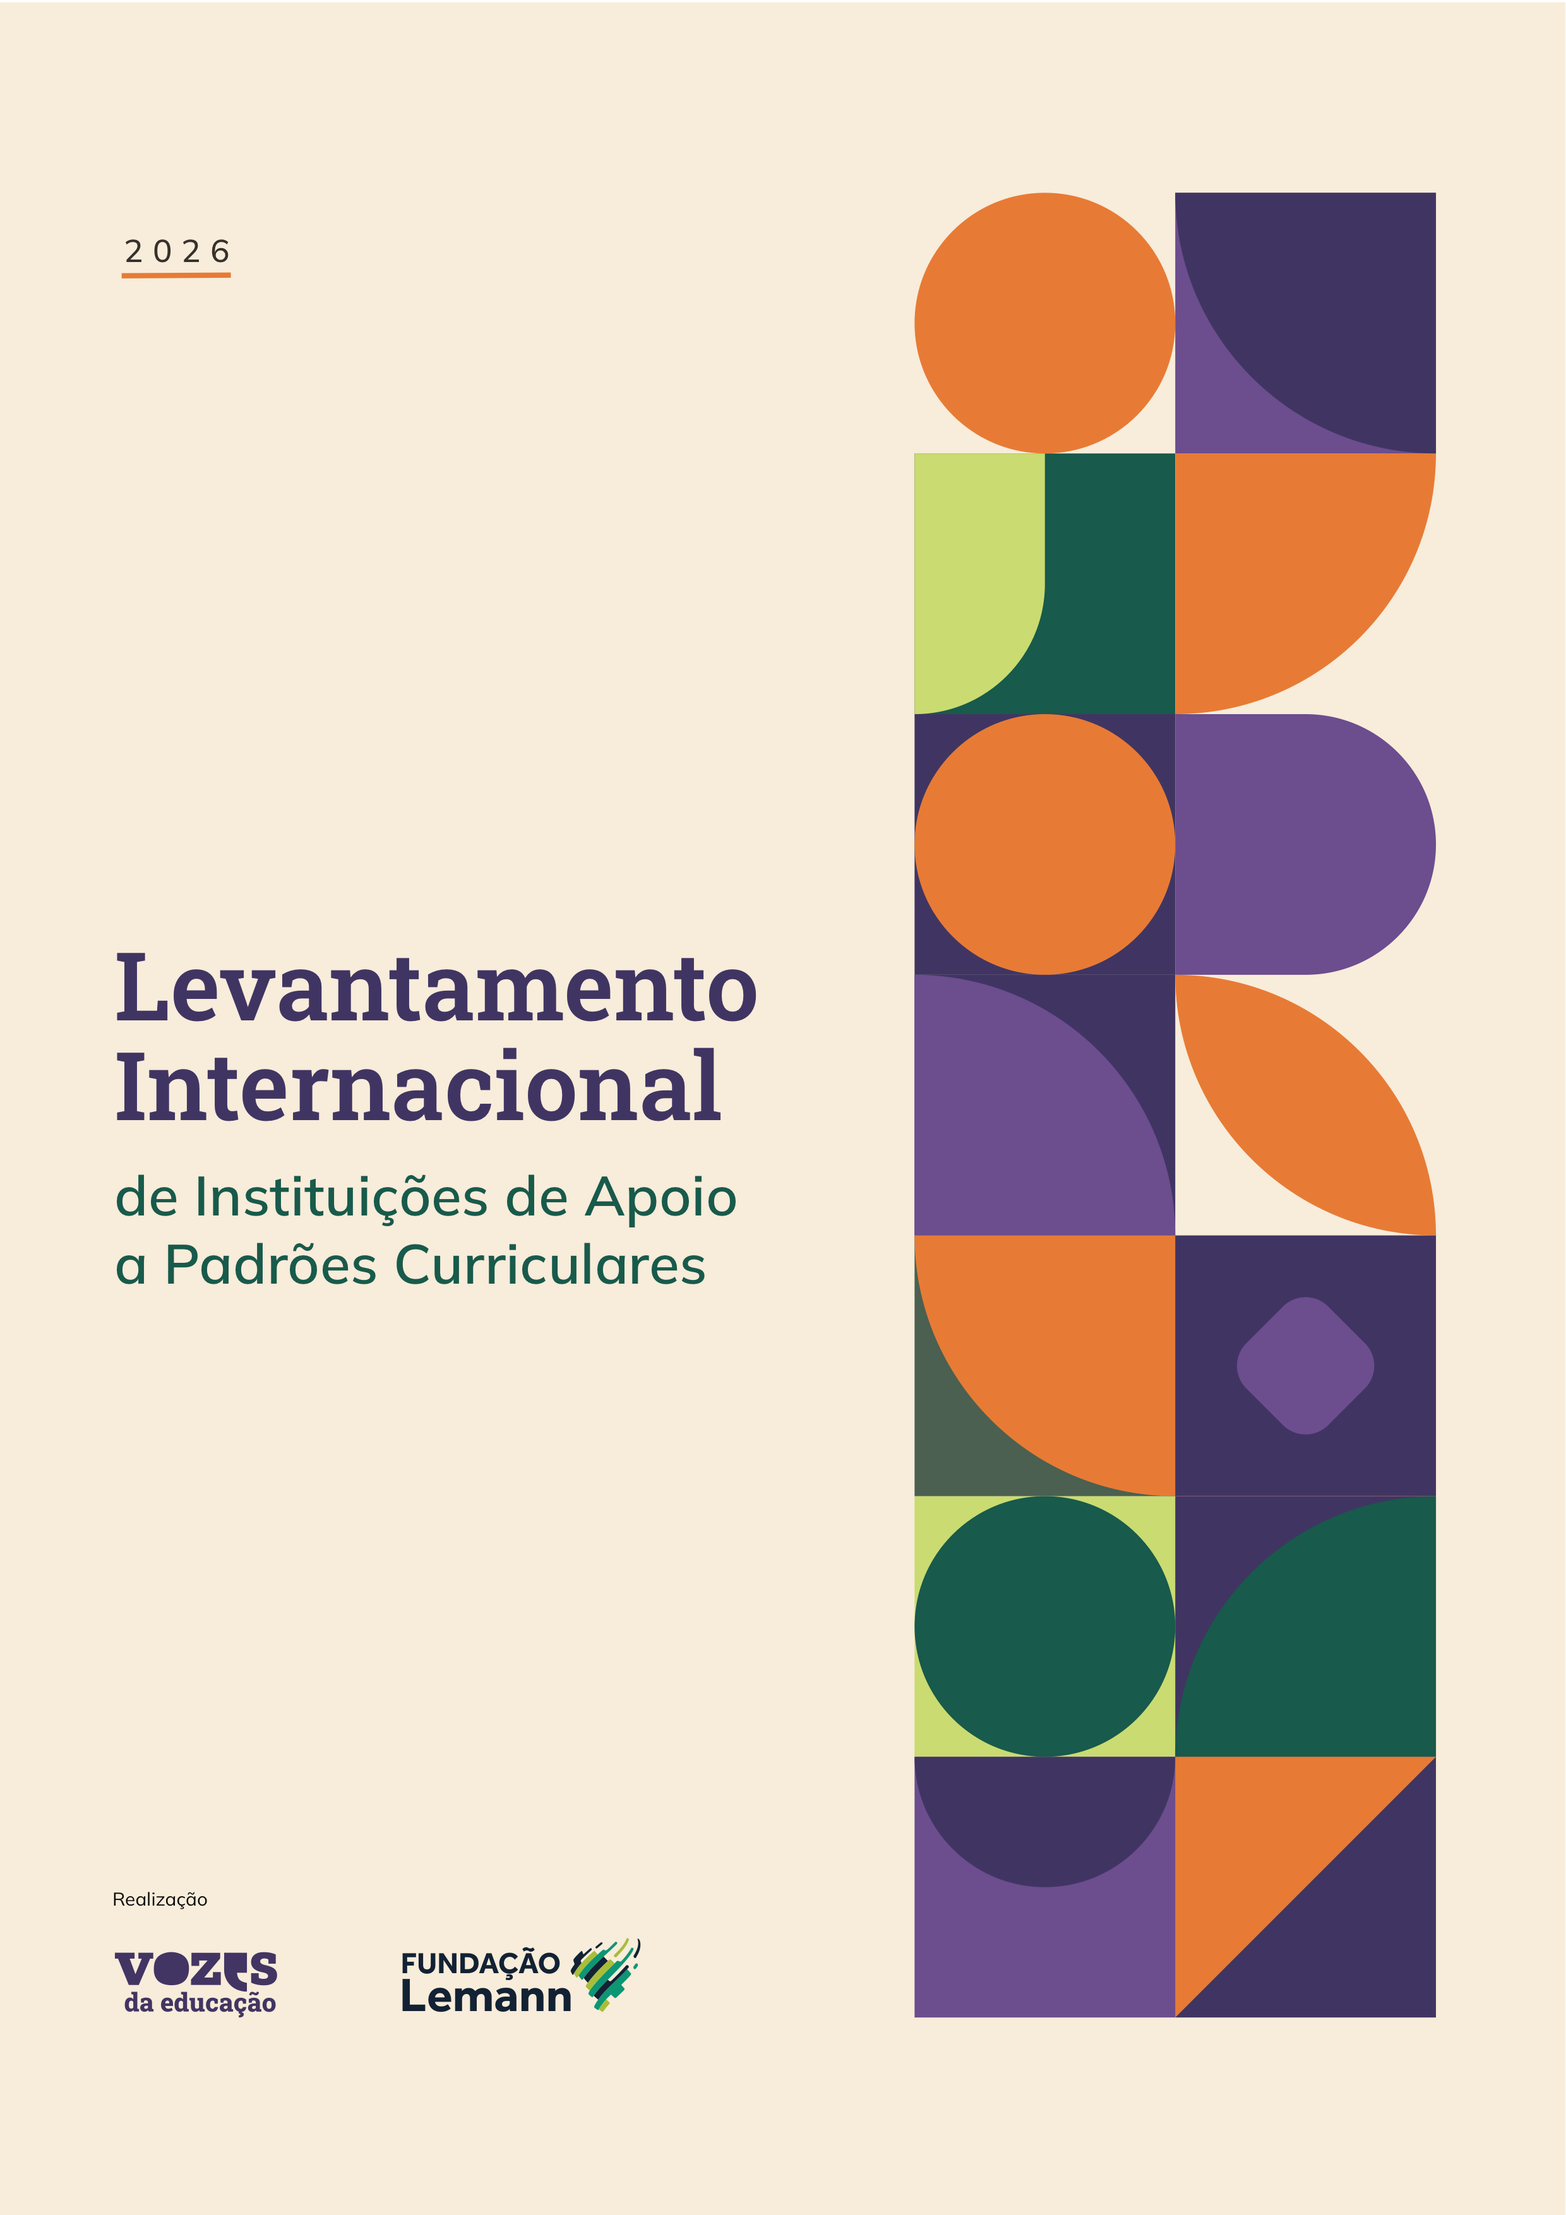
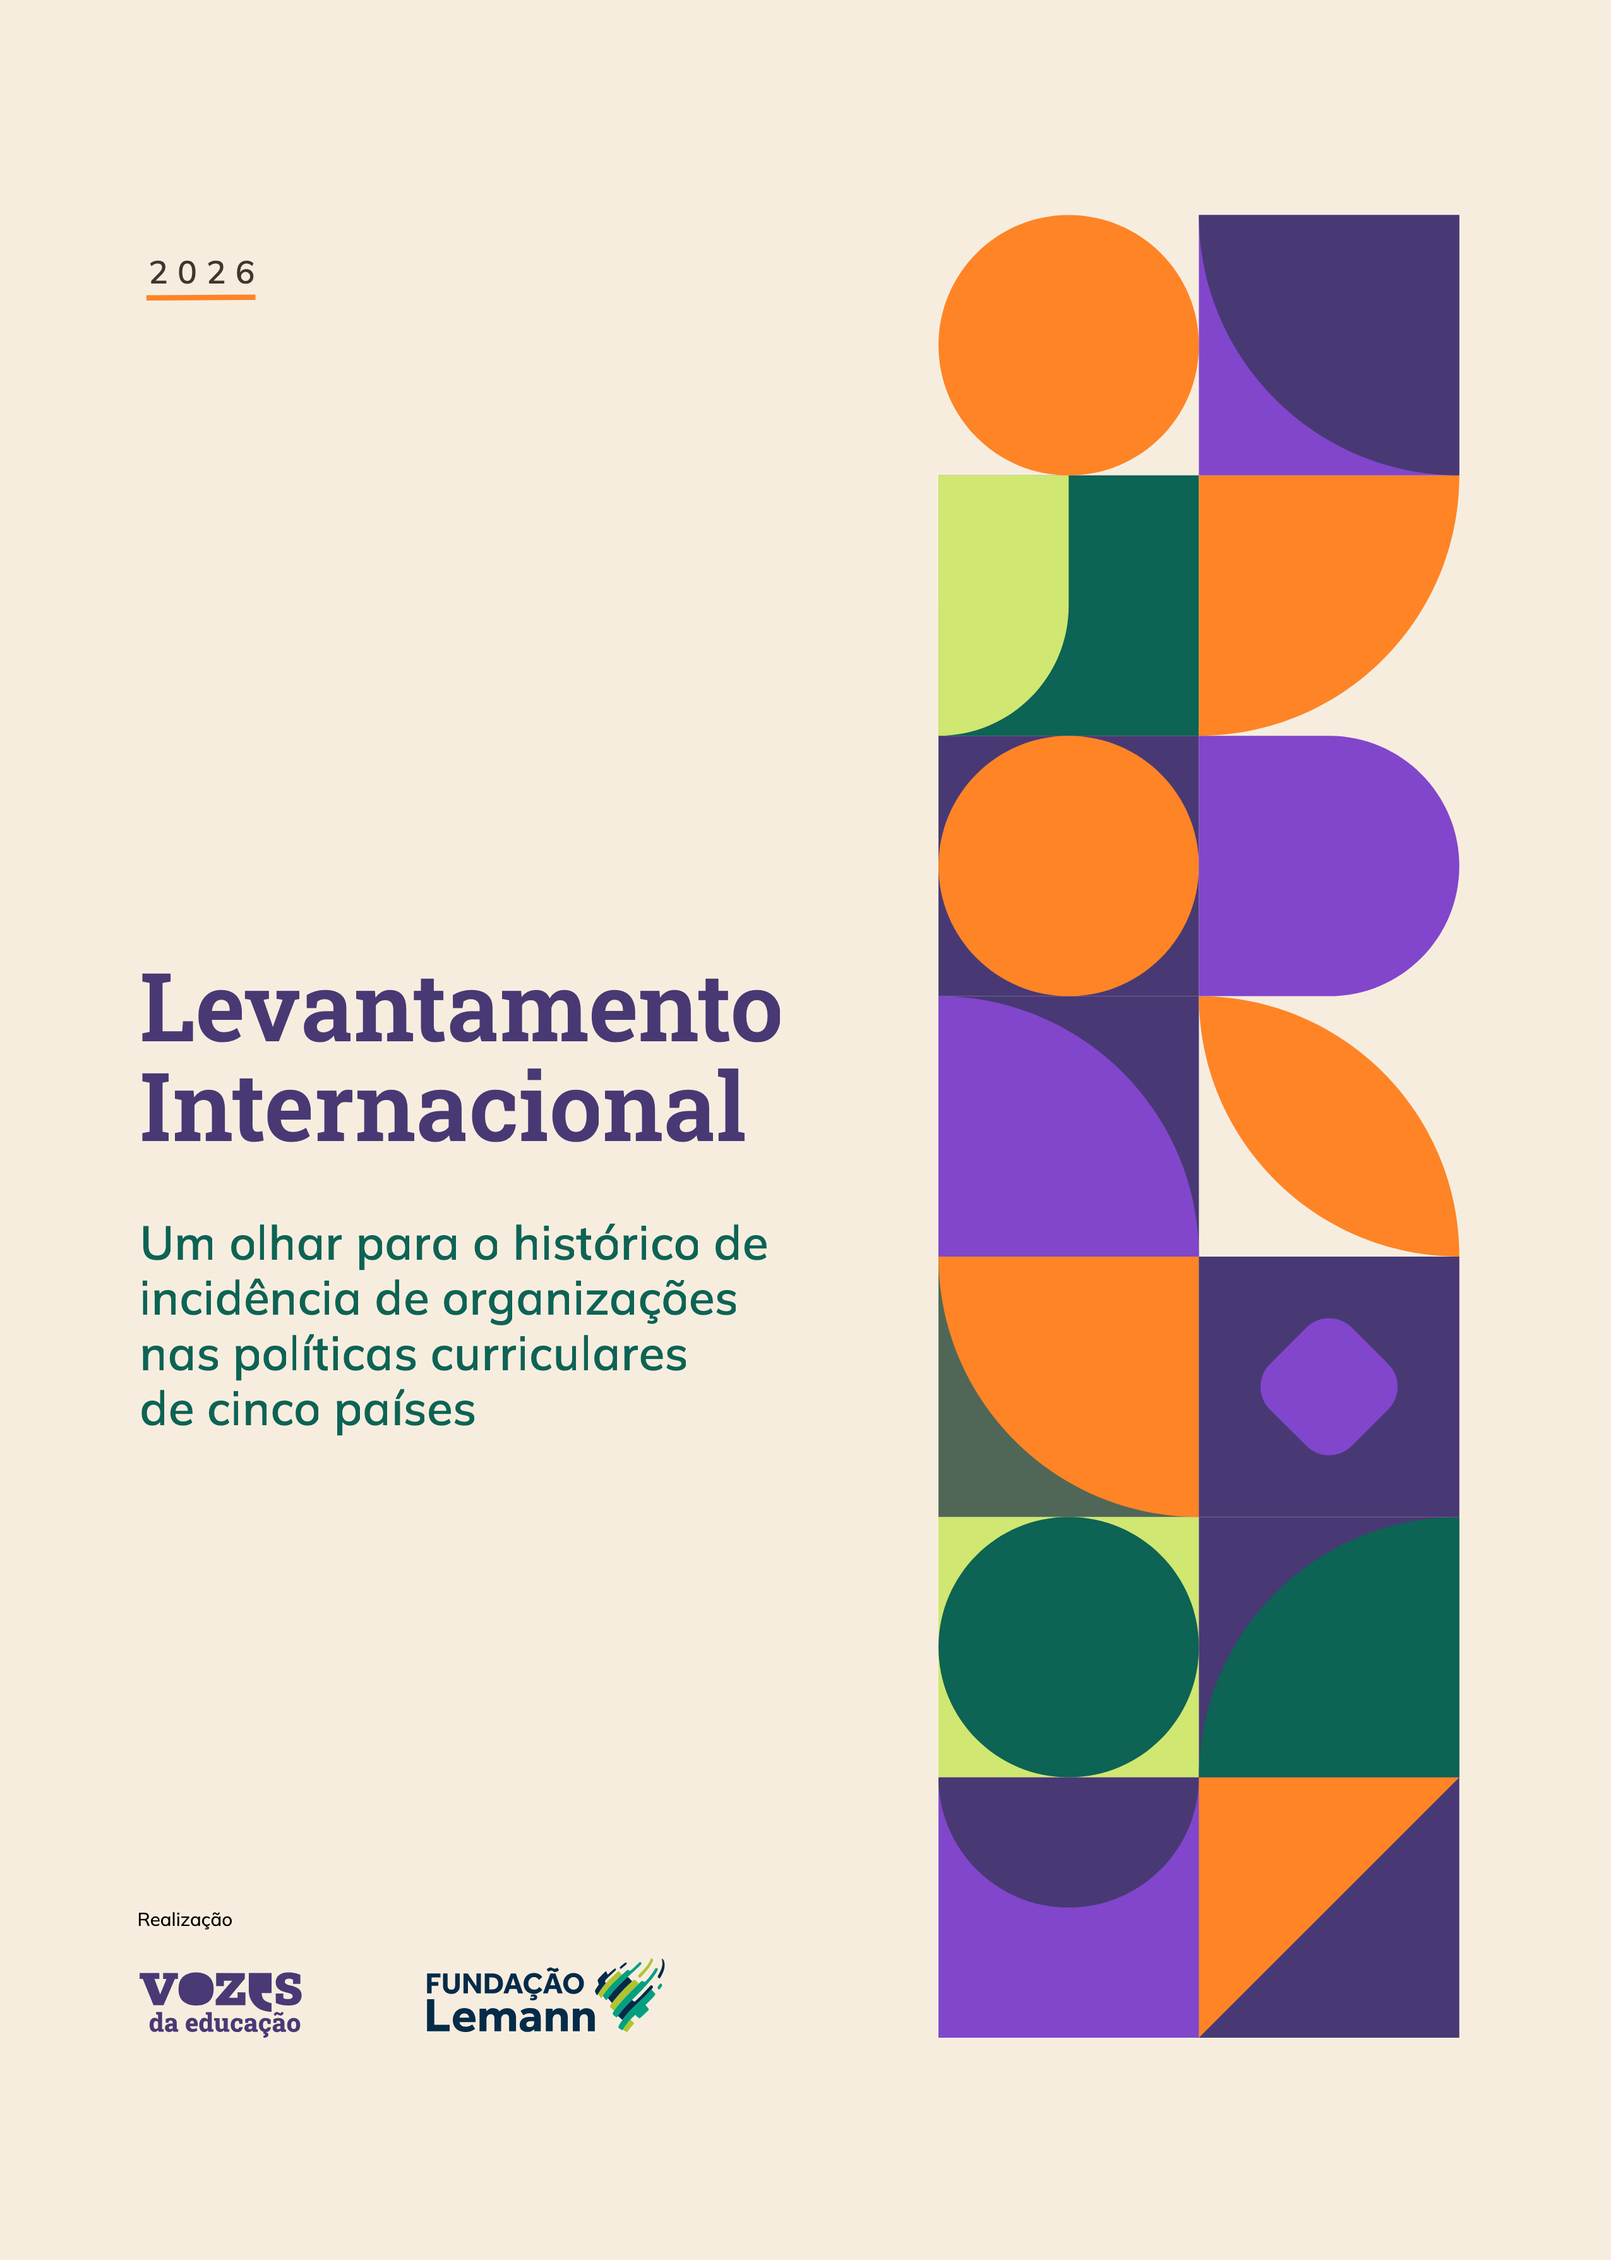
updates

diff --git a/src/lib/tuneLetterSpacing.ts b/src/lib/tuneLetterSpacing.ts
@@ -1,0 +1,127 @@
+/**
+ * Ajuste fino de entreletras para evitar rabos de linha (última linha muito curta).
+ * Unidades no mesmo espírito do tracking tipográfico: ±15 ≡ ±0,015em no corpo.
+ */
+
+export const TRACKING_UNIT_EM = 0.001
+export const TRACKING_LIMIT = 15
+
+const APRESENTACAO_SELECTOR = '.vozes-chapter--apresentacao .vozes-main > p'
+
+function measureLines(paragraph: HTMLElement, widthPx: number, letterSpacingEm: number): string[] {
+  const clone = paragraph.cloneNode(true) as HTMLElement
+  clone.style.position = 'absolute'
+  clone.style.visibility = 'hidden'
+  clone.style.pointerEvents = 'none'
+  clone.style.left = '-9999px'
+  clone.style.width = `${widthPx}px`
+  clone.style.letterSpacing = `${letterSpacingEm}em`
+  document.body.appendChild(clone)
+
+  const words = (clone.textContent ?? '').trim().split(/\s+/).filter(Boolean)
+  if (words.length === 0) {
+    clone.remove()
+    return []
+  }
+
+  clone.innerHTML = words.map((w) => `<span>${w}</span>`).join(' ')
+  const spans = [...clone.querySelectorAll('span')]
+  const lines: string[] = []
+  let curTop: number | null = null
+  let cur: string[] = []
+
+  for (const span of spans) {
+    const top = span.offsetTop
+    if (curTop !== null && top !== curTop) {
+      lines.push(cur.join(' '))
+      cur = []
+    }
+    curTop = top
+    cur.push(span.textContent ?? '')
+  }
+  if (cur.length) lines.push(cur.join(' '))
+
+  clone.remove()
+  return lines
+}
+
+function lastLineIsRabo(
+  lines: string[],
+  paragraphWidth: number,
+  letterSpacingEm: number,
+  ref: HTMLElement,
+): boolean {
+  if (lines.length < 2) return false
+  const last = lines[lines.length - 1]!
+  const words = last.trim().split(/\s+/).filter(Boolean)
+  if (words.length <= 2) return true
+
+  const refStyle = getComputedStyle(ref)
+  const probe = document.createElement('p')
+  probe.style.position = 'absolute'
+  probe.style.visibility = 'hidden'
+  probe.style.left = '-9999px'
+  probe.style.width = `${paragraphWidth}px`
+  probe.style.letterSpacing = `${letterSpacingEm}em`
+  probe.style.font = refStyle.font
+  probe.textContent = last
+  document.body.appendChild(probe)
+  const lastWidth = probe.scrollWidth
+  probe.remove()
+
+  return lastWidth < paragraphWidth * 0.38
+}
+
+function tuneParagraph(paragraph: HTMLElement): void {
+  paragraph.style.letterSpacing = ''
+  const width = paragraph.clientWidth
+  if (width <= 0) return
+
+  const measureAt = (units: number) => {
+    const em = units * TRACKING_UNIT_EM
+    paragraph.style.letterSpacing = `${em}em`
+    const lines = measureLines(paragraph, width, em)
+    const rabo = lastLineIsRabo(lines, width, em, paragraph)
+    return { units, em, lines, rabo }
+  }
+
+  const baseline = measureAt(0)
+  if (!baseline.rabo) {
+    paragraph.style.letterSpacing = ''
+    return
+  }
+
+  let best: { units: number; em: number } | null = null
+
+  for (let units = 1; units <= TRACKING_LIMIT; units++) {
+    const trial = measureAt(units)
+    if (!trial.rabo) {
+      best = { units: trial.units, em: trial.em }
+      break
+    }
+  }
+
+  if (!best) {
+    for (let units = -1; units >= -TRACKING_LIMIT; units--) {
+      const trial = measureAt(units)
+      if (!trial.rabo) {
+        best = { units: trial.units, em: trial.em }
+        break
+      }
+    }
+  }
+
+  if (best) {
+    paragraph.style.letterSpacing = `${best.em}em`
+    paragraph.dataset.vozesTracking = String(best.units)
+  } else {
+    paragraph.style.letterSpacing = ''
+    delete paragraph.dataset.vozesTracking
+  }
+}
+
+export function applyApresentacaoTrackingTuning(root: HTMLElement): void {
+  root.querySelectorAll<HTMLElement>(APRESENTACAO_SELECTOR).forEach((p) => {
+    tuneParagraph(p)
+  })
+}

diff --git a/src/styles/vozes.css b/src/styles/vozes.css
@@ -173,8 +173,8 @@
   display: block;
   width: 100%;
   height: 100%;
-  object-fit: fill;
-  object-position: center top;
+  object-fit: cover;
+  object-position: center center;
   break-inside: avoid;
   -webkit-print-color-adjust: exact;
   print-color-adjust: exact;
@@ -333,11 +333,32 @@
   display: block;
   width: 100%;
   height: 100%;
-  object-fit: fill;
-  object-position: center top;
+  object-fit: cover;
+  object-position: center center;
   break-inside: avoid;
   -webkit-print-color-adjust: exact;
   print-color-adjust: exact;
+}
+
+/* Capa e folha de rosto: arte sangra 3 mm em todas as bordas no PDF gráfica (--bleed). */
+@media print {
+  .layout-vozes-cover.sheet,
+  .layout-vozes-folha-rosto.sheet {
+    overflow: visible;
+  }
+
+  .layout-vozes-cover .cover-hero--artwork,
+  .layout-vozes-folha-rosto .folha-rosto-hero--artwork {
+    width: calc(var(--page-width) + 2 * var(--bleed));
+    height: calc(var(--page-height) + 2 * var(--bleed));
+    margin: calc(-1 * var(--bleed));
+  }
+
+  .layout-vozes-cover .cover-hero-artwork,
+  .layout-vozes-folha-rosto .folha-rosto-artwork {
+    object-fit: cover;
+    object-position: center center;
+  }
 }
 
 .layout-vozes-folha-rosto .folha-rosto-hero:not(.folha-rosto-hero--artwork) {

diff --git a/src/lib/paginateDesk.ts b/src/lib/paginateDesk.ts
@@ -4,6 +4,7 @@
  */
 
 import { installSumarioReadingNav, teardownSumarioReadingNav } from './sumarioReadingNav'
+import { applyApresentacaoTrackingTuning } from './tuneLetterSpacing'
 
 const SLOP = 4
 /** CON abertura: grelha + financiamento no fim da f. 37 (~120px de tolerância medida). */
@@ -44,6 +45,7 @@ export function paginateInto(source: HTMLElement, desk: HTMLElement): () => void
 
   const run = () => {
     if (cancelled) return
+    applyApresentacaoTrackingTuning(source)
     const sheets = [...source.children].filter((node): node is HTMLElement => node instanceof HTMLElement && node.classList.contains('sheet'))
     const pages: HTMLElement[] = []
     let pageNumber = 1

diff --git a/src/components/FolhaRostoHero.tsx b/src/components/FolhaRostoHero.tsx
@@ -11,8 +11,8 @@ export function FolhaRostoHero({ publication }: FolhaRostoHeroProps) {
         className="folha-rosto-artwork"
         src="media/folha_rosto_levantamento.png"
         alt={publication.title}
-        width={2480}
-        height={3508}
+        width={2551}
+        height={3579}
         decoding="async"
       />
     </header>

diff --git a/src/components/CoverHero.tsx b/src/components/CoverHero.tsx
@@ -11,8 +11,8 @@ export function CoverHero({ publication }: CoverHeroProps) {
         className="cover-hero-artwork"
         src="media/capa_lemann_levantamento.png"
         alt={publication.title}
-        width={2480}
-        height={3508}
+        width={2551}
+        height={3579}
         decoding="async"
       />
     </header>

diff --git a/AGENTS.md b/AGENTS.md
@@ -2,7 +2,7 @@
 
 This repository builds one editorial document as a React site (Vite) and exports a PDF by printing that site with Chromium. Read this file before changing the pipeline, the page model, or the sample.
 
-**Operational workflow (every agent turn):** follow `.cursor/rules/vozes-editorial-workflow.mdc` (`alwaysApply`) — interpret plain-language edit requests; work in the Vite preview (`visualizar` / http://127.0.0.1:5173). **Do not** auto-run `export:bundle`, `validate`, `check`, or any PDF/build script when finishing a task; the team runs those manually when they want. **Preserve every editor-agreed treatment** (MDX components, layout classes, CSS, assets) until they ask to change it; the live site reads MDX + manifest. After `import:mapeamento` (only when asked), reconcile editorial patterns before claiming done. **Human editors (non-technical):** `docs/EDITAR-COM-AGENTE.md` — examples in natural Portuguese only.
+**Operational workflow (every agent turn):** follow `.cursor/rules/vozes-editorial-workflow.mdc` and `.cursor/rules/vozes-rodada-ajustes-texto.mdc` (`alwaysApply`) — interpret plain-language edit requests; during the **text-cut round**, change copy only, leave layout frozen, do not fill empty space or reflow content across pages unless the editor asks; work in the Vite preview (`visualizar` / http://127.0.0.1:5173). **Do not** auto-run `export:bundle`, `validate`, `check`, or any PDF/build script when finishing a task; the team runs those manually when they want. **Preserve every editor-agreed treatment** (MDX components, layout classes, CSS, assets) until they ask to change it; the live site reads MDX + manifest. After `import:mapeamento` (only when asked), reconcile editorial patterns before claiming done. **Human editors (non-technical):** `docs/EDITAR-COM-AGENTE.md` — examples in natural Portuguese only.
 
 ## Architecture
 
